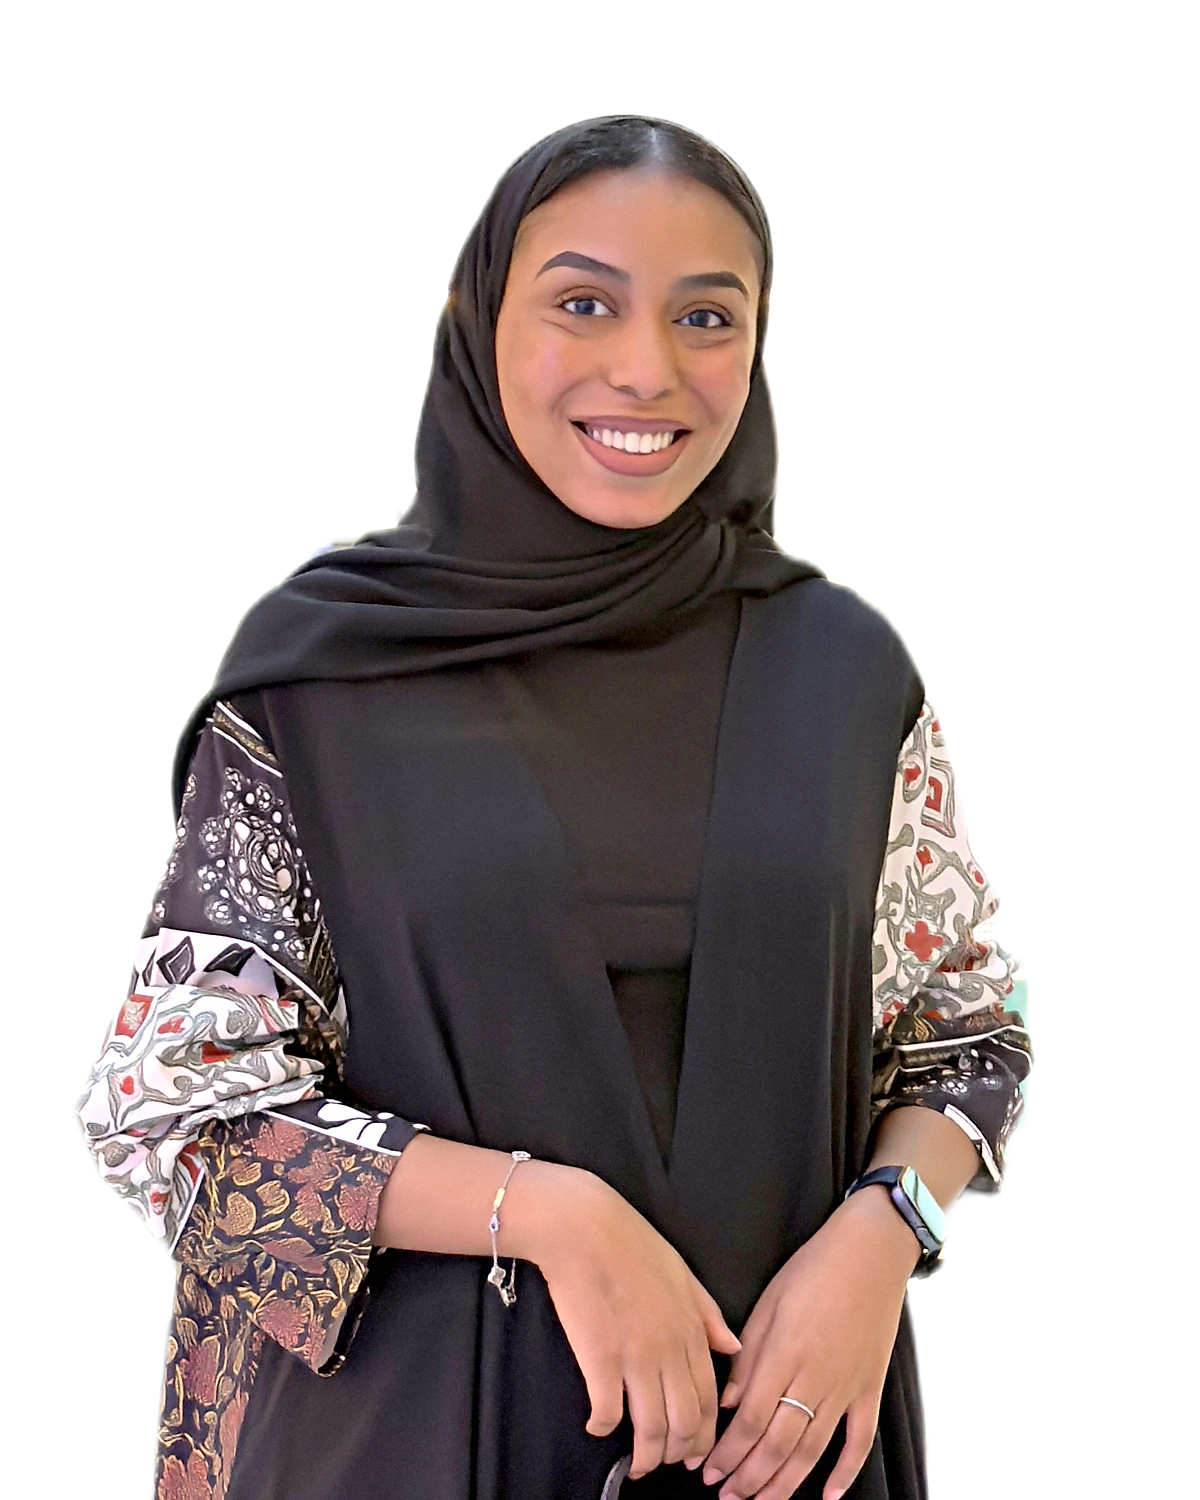
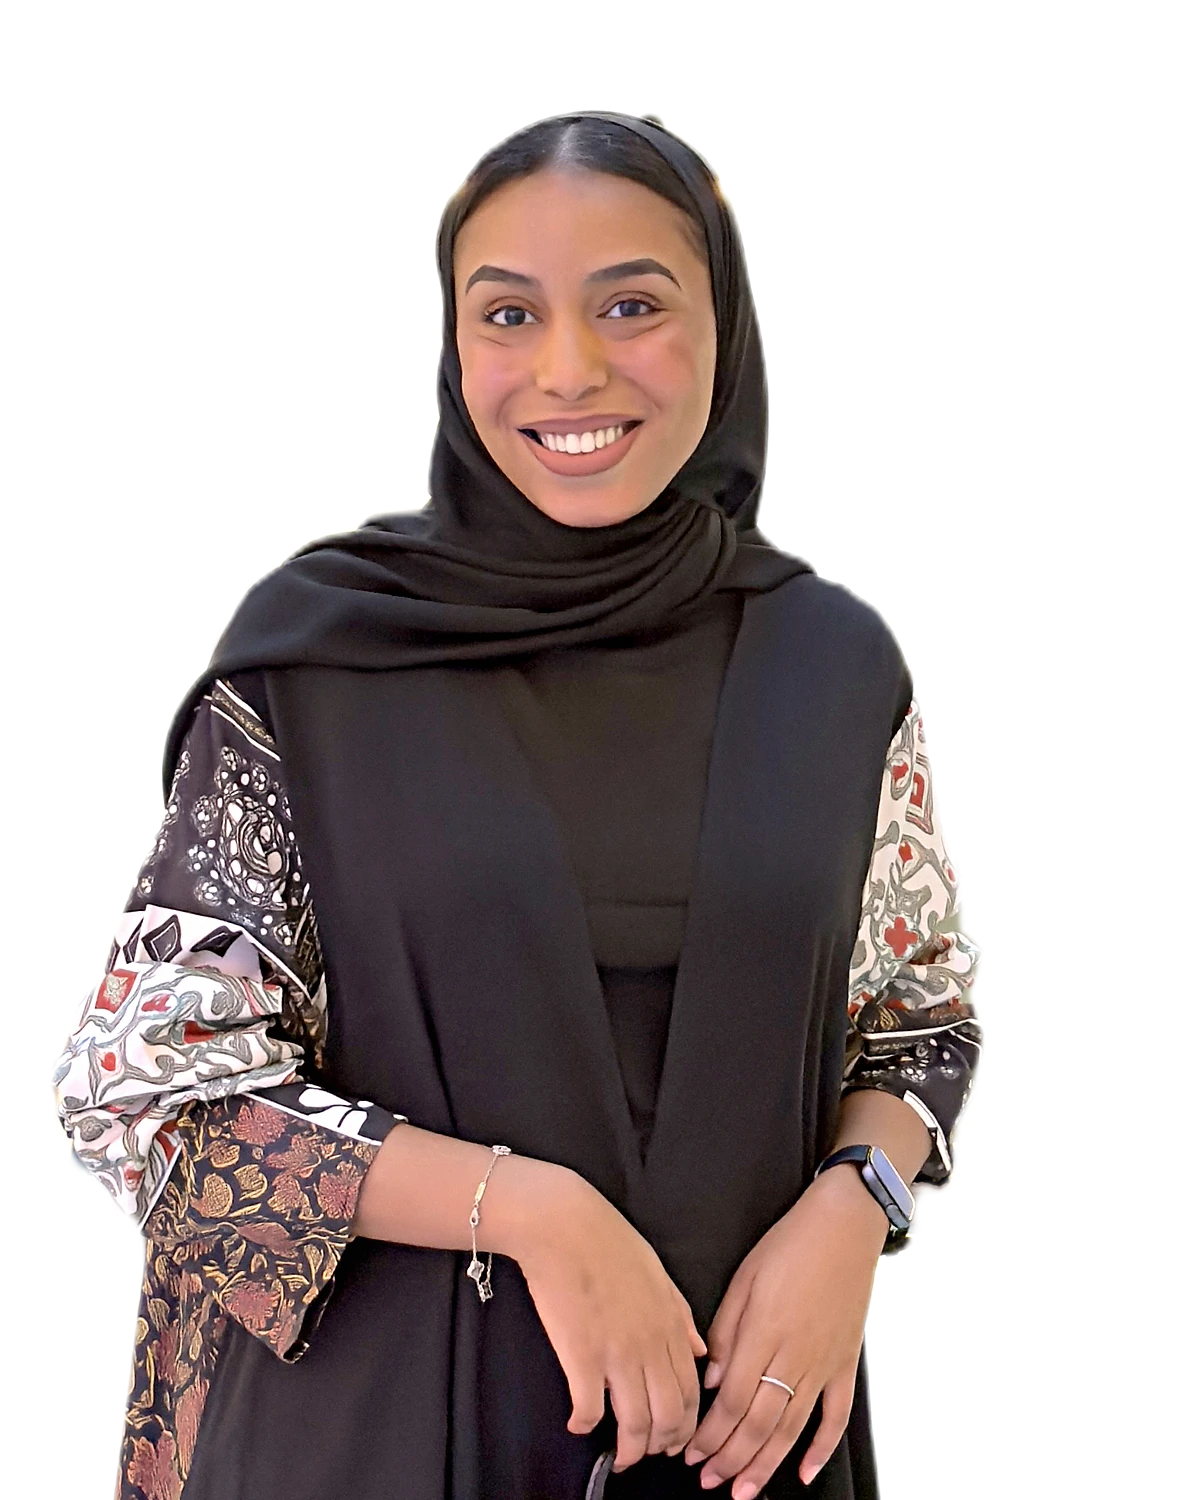
Use Fatma's new photo
Claude-Session: https://claude.ai/code/session_01UqYfgUVQ71Z2mj6btitSC8

Changed region(s): [[0.0308, 0.0613, 0.8633, 1.0], [0.6475, 0.368, 0.7092, 0.3987]]

diff --git a/src/content/team.ts b/src/content/team.ts
@@ -9,7 +9,7 @@ export type Member = {
 }
 
 export const TEAM: Member[] = [
-  { id: 'fatma', photo: '/team/fatma.webp?v=4', hd: true },
+  { id: 'fatma', photo: '/team/fatma.webp?v=5', hd: true },
   { id: 'anaum', photo: '/team/anaum.webp' },
   { id: 'anas', photo: '/team/anas.webp?v=3' },
   { id: 'ibtisam', photo: '/team/ibtisam.webp' },
